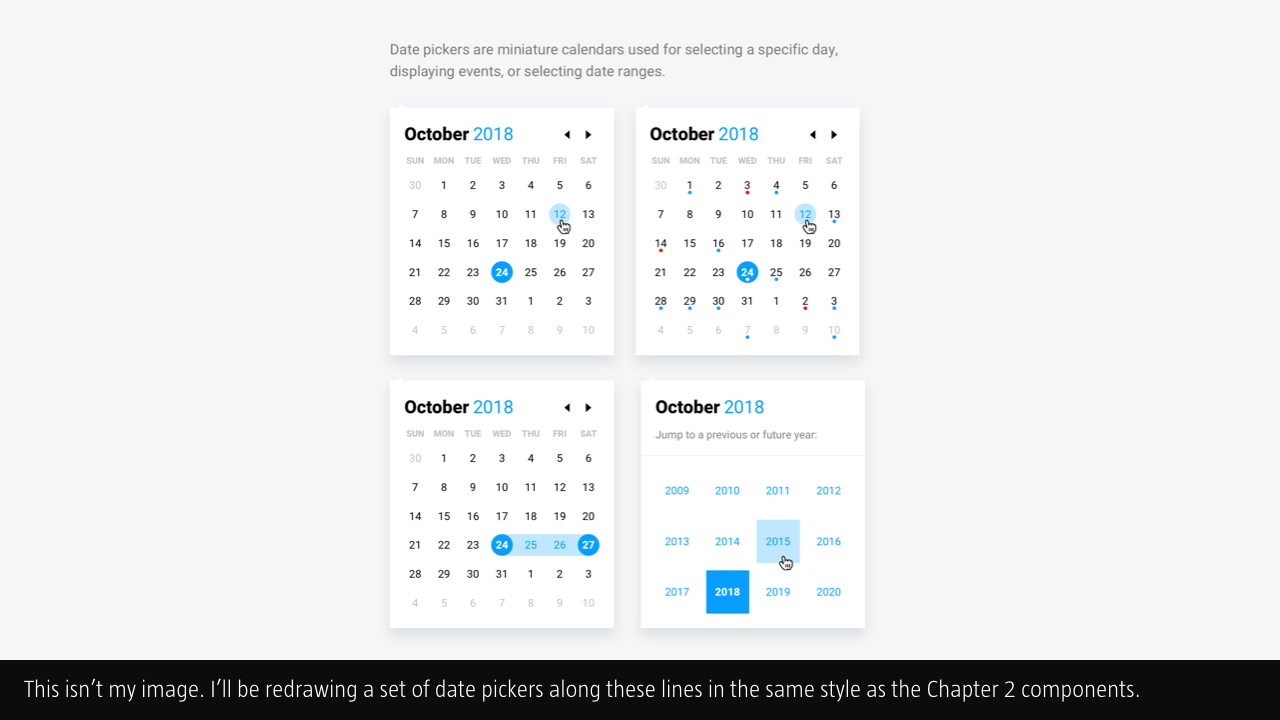
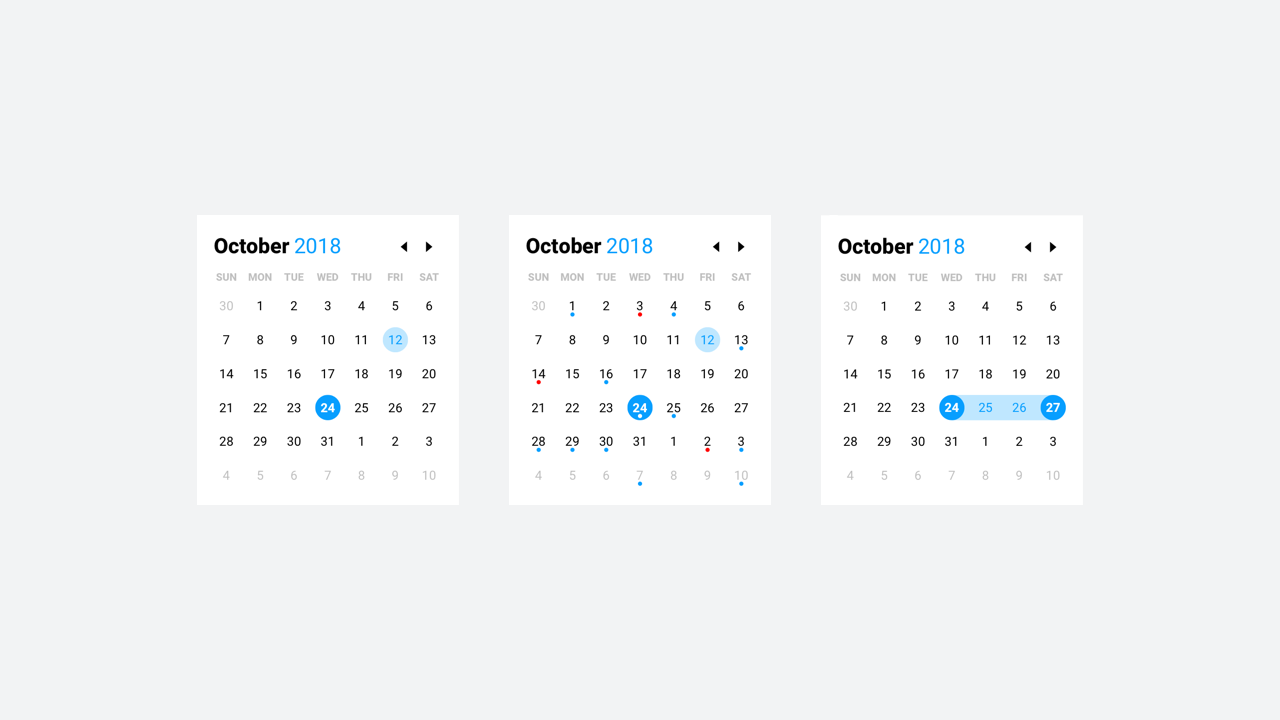
C3S3… making progress.

diff --git a/_preview/03-Information-Architecture.md b/_preview/03-Information-Architecture.md
@@ -198,7 +198,7 @@ It’s a good idea to get into the habit of **collecting examples of the differe
 
 These can be useful for showing clients or project partners **examples of how typical design problems are addressed**. (A series of credit card patterns if you’re developing a digital store, for example.)
 
-In my work, I keep collections of example patterns organised by folders. **For each pattern, I create a new Keynote slidedeck and organise all of my screenshots accompanied by comments.** [Here is an example.](https://noti.st/mrmurphy/SQzORm/pattern-library-netlify-credit-card-modal)
+In my work, I keep collections of example patterns organised by folders. **For each pattern, I create a new Keynote slidedeck and organise all of my screenshots accompanied by comments.** Here is an example, analysing [Netlify’s Credit Card Modal Pattern](https://noti.st/mrmurphy/SQzORm/pattern-library-netlify-credit-card-modal).
 
 
 {% include figure.html url="/images/ch3/c3-s1-6-netlify-credit-card-modal.png" alt="Netlify’s Credit Card Modal Pattern" description="An example of one of a series of pattern library slidedecks that I’ve created for my own reference in my studio. (Essentially my own Pattern Tap.)" %}
@@ -476,9 +476,7 @@ In addition to the above, I think I’ll create a Notist slidedeck – [somethin
 Section 3: A Library of Patterns
 --------------------------------
 
-_/* This section needs images. For now I’m focused on the content. */_
-
-In this section, which echoes the structure of Chapter 2, **I’ll explore a series of typical design patterns** that you might encounter and that you might also need to design.
+In this section, which echoes the structure of Chapter 2, **I’ll explore a series of typical user interface design patterns** that you might encounter and will almost certainly need to design.
 
 As with the previous chapter, **this is not an exhaustive list, rather it’s intended to focus on a subset of common patterns that exist**, highlighting the principle that patterns are useful in user interface design and need to be considered. There are many more design patterns available, as always, research is key.
 
@@ -490,7 +488,7 @@ I’ll explore the following patterns and, as with Chapter 2, I’ll provide a s
 + Notifications
 + Profile Cards
 
-As I’ve noted above, patterns are incredibly useful and can save you a considerable amount of time when you’re designing a user interface. Put simply: If a pattern exists, embracing it (and modifying it if you need to) saves you from doing work that’s been done before by others.
+As I’ve noted above, **patterns are incredibly useful and can save you a considerable amount of time when you’re designing a user interface**. There’s little point in reinventing the wheel, if a pattern exists, embracing it – and modifying it if you need to – saves you from doing work that’s been done before by others.
 
 With that point stressed, let’s explore some typical user interface patterns you may find useful.
 
@@ -501,50 +499,44 @@ With that point stressed, let’s explore some typical user interface patterns y
 
 ### Date Pickers
 
-As user interface designers we frequently encounter a need for date patterns. A user might, for example, need to:
+As user interface designers **we frequently encounter a need for date picker patterns**. A user might, for example, need to:
 
 + book a flight;
 + add a reminder to a calendar; or
 + make an appointment.
 
-All of these interactions require a date – or a span of dates – to be selected. At the simplest level, a date selection pattern will include a calendar of some description, allowing the user to select dates. At a more complex level, we might need to consider the inclusion of times in the users’ selection.
+All of these interactions require a date – or a span of dates – to be selected. At the simplest level, **a date picker pattern will include a calendar of some description**, allowing the user to select the date or dates they require. At a more complex level, **we might need to consider the inclusion of times in the user’s selection**.
 
-As I’ve stressed throughout this book (in particular, in Chapter 1) users have mental models of how these interactions function, based on their past experience. Rather than try to reinvent the wheel it makes sense to explore what has already been tried and tested and proven to work.
+As I’ve stressed throughout this book, **users have mental models of how these interactions function, based on their past experience**. Rather than try to reinvent the wheel, it makes sense to explore what has already been tried and tested and proven to work.
 
-Google’s flight selector is a great example of a date selector that’s beautifully designed, intuitive and easy to use.
+Regardless of your requirements, you’ll almost certainly need to consider:
 
-IMAGE? LOSE THIS OR THIS GETS TOO LONG.
++ displaying the current day’s date in a clear and obvious manner;
++ how users move between different months and years; and
++ managing error states (for example, if a user enters a return date that’s **before** the departure date).
 
-By pre-focusing on a pre-selected date, it **gives the user a head start**. Of course, not all users will want to travel on the date that Google’s designers have pre-selected, so **the design makes it easy to pick another more convenient date to travel**.
+Searching on Dribbble for [‘date picker’](https://dribbble.com/search?q=date+picker) returns a wealth of different solutions – and aesthetics – for date pickers. Harpal Singh’s [date picker](https://dribbble.com/shots/3397410-Date-Picker-Calendar-Component), in particular, is worth looking at for the consideration he gives to different states (base, hover and error states). Finally, Vitaly Friedman – Smashing Magazine’s founder – has written an exhaustive and very in-depth overview of date pickers, [Designing the Perfect Date and Time Picker](https://www.smashingmagazine.com/2017/07/designing-perfect-date-time-picker/). A 40 minute read (!), it’s well worth setting aside some time to work your way through. Never one for half measures, Friedman considers every eventuality.
 
-What’s particularly nice about Google’s approach to this pattern is its use of **subtle, yet delightful interactions, which provide feedback to the user in a delightful manner**.
+Google Flights’ date picker is a great example of a date picker that’s **beautifully designed, intuitive and easy to use**. As I did with the Netlify Credit Card Modal (highlighted above), I’ve included an analysis of it in my [pattern library](https://noti.st/mrmurphy/Zy3ib6/pattern-library-google-flights-date-picker).
 
-As computers have become more powerful and, hand-in-hand with this, our connections to the web have become more accommodating, there has been **a rise in the use of animation within interfaces**.
-
-Users now expect animation to be an integral part of a user interface and, as a consequence, static interfaces have become less appealing. I’ll explore the use of animation in [Chapter 7: Animating Interfaces](#), but as I explore patterns, it’s worth bearing in mind that **patterns exist not just for how elements look, but also how they feel**.
-
-As you explore patterns and build your own library of examples, it’s worth noting how the various patterns you encounter work at an interactive level, considering:
-
-+ how interfaces change as you interact with them;
-+ how transitions are used to signal a shift from one state to another; and
-+ how long transitions take.
-
-MAYBE STICK WITH MY OWN EXAMPLE SO THIS CHAPTER BUILDS ON THE DESIGN SYSTEM I’M ESTABLISHING AND USE GOOGLE’s PICKER FOR A PATTERN ANALYSIS (ON NOTIST).
-
-UI Patterns, which I explored in Section 1, has [a useful collection of date pickers](http://ui-patterns.com/patterns/CalendarPicker) that are worth looking at.
+What’s particularly nice about Google’s approach to its date picker pattern is its relative ease of use. **Despite the complexity of the information it presents, the user interface is clear**, chunked into a series of easily parsable steps.
 
 
 
-{% include figure.html url="/images/ch3/c3-s3-2-sign-in.png" alt="Sign In" description="This is a temporary image (and it’s not mine, it’s Cotton Bureau’s). It will be replaced by an image drawn in a similar style the components I created for Chapter 2." %}
+{% include figure.html url="/images/ch3/c3-s3-2-sign-up-sign-in.png" alt="Sign-Up / Sign-In Forms" description="This is a temporary image (it’s Cotton Bureau’s). It will be replaced by an image drawn in a similar style the components I created for Chapter 2." %}
 
 
-### Register / Sign-In Forms
+### Sign-Up / Sign-In Forms
 
-As more and more applications move towards the web the need for Register / Sign-In forms has grown. When a user first encounters a web-based application they will often be asked to register an account. This allows information relevant to the user to be stored for their return.
+If you’re designing a piece of software (especially a piece of web-based software) or building some form of community-focused service, **you’ll need to consider a Sign-Up / Sign-In forms for users to sign up for your product or service, or sign into it**.
 
-Once a user has registered, they will need to sign-in to access their account. **If signing in is important to the application you’re building, it’s essential to ensure that the sign-in form is clearly signposted.**
+When a user first encounters a SaaS (Software as a Service) product, they’ll often be **asked to register for an account**. This allows information relevant to the user to be stored for their return, or items added to a shopping cart to be saved for later.
 
-Registration and Sign-In forms at the very least require two pieces of data:
+This will often involve a round trip to an email client for your users to confirm they are who they say they are (something you’ll also need to consider).
+
+Once a user has registered, they’ll need to sign-in to access their account. **If signing in is important to the application you’re building, it’s essential to ensure that the sign-in form is clearly signposted.**
+
+Sign-Up and Sign-In forms at the very least require two pieces of data:
 
 + a username; and
 + a password.
@@ -553,17 +545,17 @@ Some forms ask for more information, but **as a rule of thumb it’s best to kee
 
 If your goal is for users to sign up for an account, you want to **remove as much friction as possible** and removing form fields is a good way to do this. As a user becomes more embedded, using your application more frequently, **you can ask for additional information you might need**.
 
-In addition to the design of the core registration and sign-in forms there’s a need to consider what happens should users forget their registration details. In this example, I’ve focused on the registration and sign-in forms, but you’ll also need to consider how you support users who have forgotten or lost their details.
+In addition to the design of the core sign-up and sign-in forms, **there’s a need to consider what happens should users forget their registration details**.
 
-It might be tempting to kill two birds with one stone and present users with both the registration and sign-in forms in two forms side-by-side. This often leads to confusion, however, where a user tries to register by using the sign-in form (or vice-versa).
+There’s nothing more frustrating than an application that doesn’t allow you to recover (or reset) your password should you have forgotten or lost it.
 
-A better approach is to **present the user with one form, with a clearly signposted link to the other form**.
+It might be tempting to kill two birds with one stone and present users with both the registration and sign-in forms in two forms side-by-side. **This often leads to confusion**, however, where a user tries to register by using the sign-in form (or vice-versa).
 
-<!-- Look at Silver, pp212-213. It’s excellent. Perhaps mention this in the required reading also? -->
+A better approach is to **present the user with one form, with a clearly signposted link to the other form**. In the above example, clicking on the greyed out option takes the user to the form they’re not currently on, enabling them to switch easily.
 
-I’ve focused on sign in forms because doing so enables me to explore forms (about which entire books have been written!), but do it in a more focused way without getting lost in detail.
+I’ve focused on sign in forms because **doing so enables me to explore forms** (about which entire books have been written!), but do it in a more focused way without getting lost in detail.
 
-If the user interface you’re designing includes forms – and it’s highly likely it will – I’d strongly recommend Adam Silver’s [Form Design Patterns](https://shop.smashingmagazine.com/products/form-design-patterns-by-adam-silver). It’s comprehensive and – like all books published by my friends at Smashing Magazine – it’s beautifully designed and printed.
+If the user interface you’re designing includes forms – and it’s highly likely it will – **I’d strongly recommend Adam Silver’s [Form Design Patterns](https://shop.smashingmagazine.com/products/form-design-patterns-by-adam-silver)**. It’s comprehensive and – like all books published by my friends at Smashing Magazine – it’s beautifully designed and printed.
 
 
 
@@ -574,11 +566,25 @@ If the user interface you’re designing includes forms – and it’s highly li
 
 _/* Look at Letterboxd’s credit card form. */_
 
-The web has long proven a powerful platform for digital commerce and, as such, credit card patterns – which codify the input of users’ credit card details – are in plentiful supply.
+The web has proven **a powerful platform for digital commerce** and, as such, credit card patterns – which structure the input of users’ credit card details – are in plentiful supply.
 
-One of the wonderful aspects of working on the web is its leanings towards openness. Thanks to the web’s beginnings, in particular its open ‘View Source’ culture, we’ve inherited a culture of shared understanding where talented individuals share their thinking for the benefit of all.
+One of the wonderful aspects of working on the web is its leanings towards openness. Thanks to the web’s beginnings, **in particular its open ‘View Source’ culture**, we’ve inherited a culture of shared understanding where talented individuals share their thinking for the benefit of all.
 
-UX Collective, which gathers ‘curated stories on user experience, usability and product design’, offers a wealth of information and Gabriel Tomescu’s [‘Anatomy of a Credit Card Form’](https://uxdesign.cc/the-anatomy-of-a-credit-card-payment-form-32ec0e5708bb) takes the ubiquitous credit card form we meet, day-in day-out, and presents an exhaustive analysis of credit card patterns and is required reading should your project require payments of any kind.
+UX Collective, which gathers **‘curated stories on user experience, usability and product design’**, offers a wealth of information on the design of all things UX +/ UI, and **Gabriel Tomescu’s [‘Anatomy of a Credit Card Form’](https://uxdesign.cc/the-anatomy-of-a-credit-card-payment-form-32ec0e5708bb) takes the ubiquitous credit card form we meet, day-in day-out, and presents an exhaustive analysis of credit card patterns**. It’s required reading should your project require payments of any kind.
+
+When designing a credit card pattern, you'll need to consider showing:
+
++ What cards are accepted?
++ A total field, where the user can enter a total (unless it's pre-populated as the result of a preceding transaction).
++ The name on the card.
++ A card number (which you can dynamically format, to help the user).
+
+In addition to the above, it's also helpful to indicate the type of card the user is using, so they feel re-assured. It's possible to determine the type of card being used by the card number's starting number.
+
++ **3:** American Express, Diners Club…
++ **4:** Visa
++ **5:** MasterCard
++ **6:** Discover Card
 
 When money is changing hands, it’s important to establish a bond of trust, indicating to the users that their card details are safe and secure. UI Patterns has a helpful article on [Designing for Trust](http://ui-patterns.com/blog/Designing-for-trust) that’s worth reading so you can put your users’ minds at ease.
 

diff --git a/_preview/07-Chapter-7-Animating-Interfaces.md b/_preview/07-Chapter-7-Animating-Interfaces.md
@@ -26,6 +26,21 @@ table-of-contents:
 **Pre-Release notes here. Anything I'd like to draw Jordan's and Kyle's attention to.**
 
 
+### Animation everywhere…
+
+…the use of **subtle, yet delightful interactions, which provide feedback to the user in a delightful manner**.
+
+As computers have become more powerful and, hand-in-hand with this, our connections to the web have become more accommodating, there has been **a rise in the use of animation within interfaces**.
+
+Users now expect animation to be an integral part of a user interface and, as a consequence, static interfaces have become less appealing. I’ll explore the use of animation in [Chapter 7: Animating Interfaces](#), but as I explore patterns, it’s worth bearing in mind that **patterns exist not just for how elements look, but also how they feel**.
+
+As you explore patterns and build your own library of examples, it’s worth noting how the various patterns you encounter work at an interactive level, considering:
+
++ how interfaces change as you interact with them;
++ how transitions are used to signal a shift from one state to another; and
++ how long transitions take.
+
+
 
 Overview
 --------
